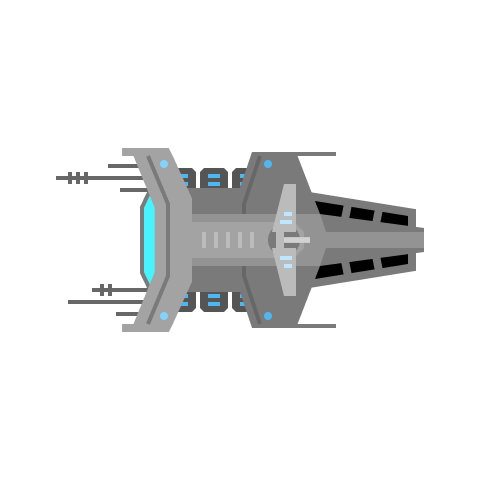
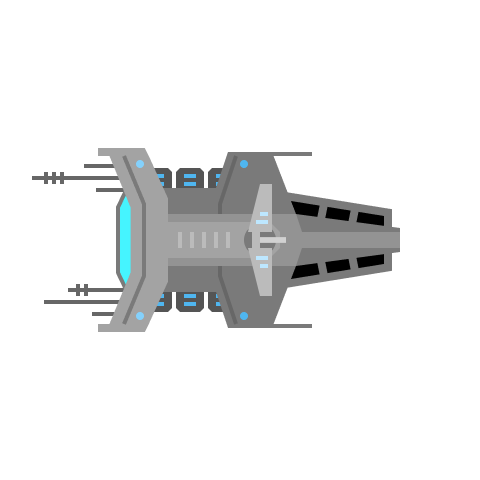
f

Changed region(s): [[0.0625, 0.2812, 0.9062, 0.7188], [0.6562, 0.6562, 0.7188, 0.6875], [0.6562, 0.3125, 0.7188, 0.3438]]

diff --git a/client.js b/client.js
@@ -58,12 +58,15 @@ loader
     .add("minimap", "images/minimap/minimap.png")
     .add("marker1", "images/minimap/marker1.png")
     .add("marker2", "images/minimap/marker2.png")
-    .add("ship_base", "images/ship_base.png")
-    .add("ship_dark", "images/ship_dark.png")
-    .add("ship_outline", "images/ship_outline.png")
-    .add("ship2_base", "images/ship2_base.png")
-    .add("ship2_dark", "images/ship2_dark.png")
-    .add("ship2_outline", "images/ship2_outline.png")
+    .add("ship_base", "images/ships/ship_base.png")
+    .add("ship_dark", "images/ships/ship_dark.png")
+    .add("ship_outline", "images/ships/ship_outline.png")
+    .add("ship2_base", "images/ships/ship2_base.png")
+    .add("ship2_dark", "images/ships/ship2_dark.png")
+    .add("ship2_outline", "images/ships/ship2_outline.png")
+    .add("ship3_base", "images/ships/ship3_base.png")
+    .add("ship3_dark", "images/ships/ship3_dark.png")
+    .add("ship3_outline", "images/ships/ship3_outline.png")
     .add("asteroid_base", "images/asteroid_base.png")
     .add("asteroid_dark", "images/asteroid_dark.png")
     .add("asteroid_outline", "images/asteroid_outline.png")

diff --git a/clientgameobjects.js b/clientgameobjects.js
@@ -200,8 +200,9 @@ function Ship() {
     this.afterBurnerActive = 0;
     this.afterBurnerFuel = 0;
     //this.trails = [new Trail(this, new Vector(-90, 0))];
-    this.trails = [new Trail(this, new Vector(-180, -72)), new Trail(this, new Vector(-180, 72)), new Trail(this, new Vector(-127, -124)), new Trail(this, new Vector(-127, 124)), new Trail(this, new Vector(55, -112),false), new Trail(this, new Vector(55, 112),false)];
-    this.sprite = new ShadedSprite(this, "ship2", { size: 1.9 });
+    //this.trails = [new Trail(this, new Vector(-180, -72)), new Trail(this, new Vector(-180, 72)), new Trail(this, new Vector(-127, -124)), new Trail(this, new Vector(-127, 124)), new Trail(this, new Vector(55, -112),false), new Trail(this, new Vector(55, 112),false)];
+    this.trails = [new Trail(this, new Vector(-120, -20)), new Trail(this, new Vector(-120, 20))];
+    this.sprite = new ShadedSprite(this, "ship3", { size: /*1.9*/1.6 });
 
     this.init = function (type) {
         this.stats = type;
